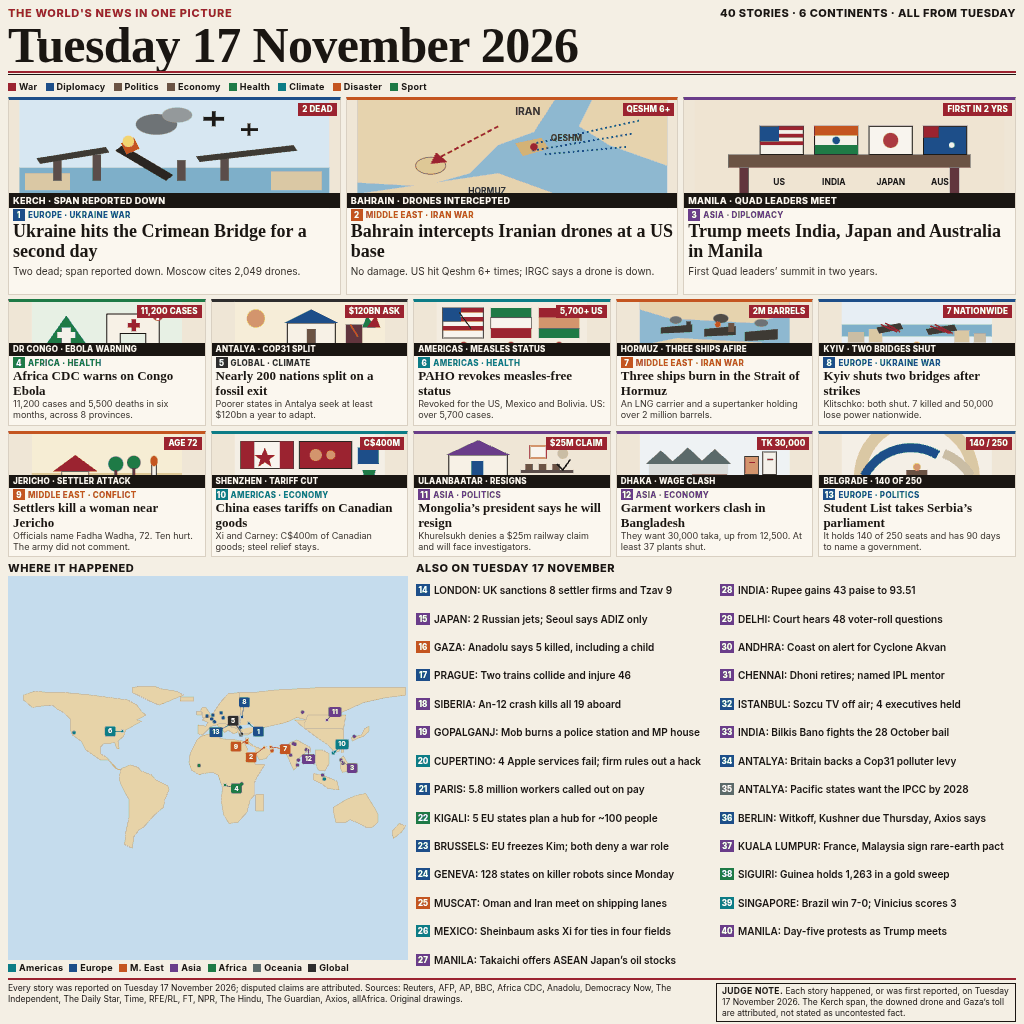
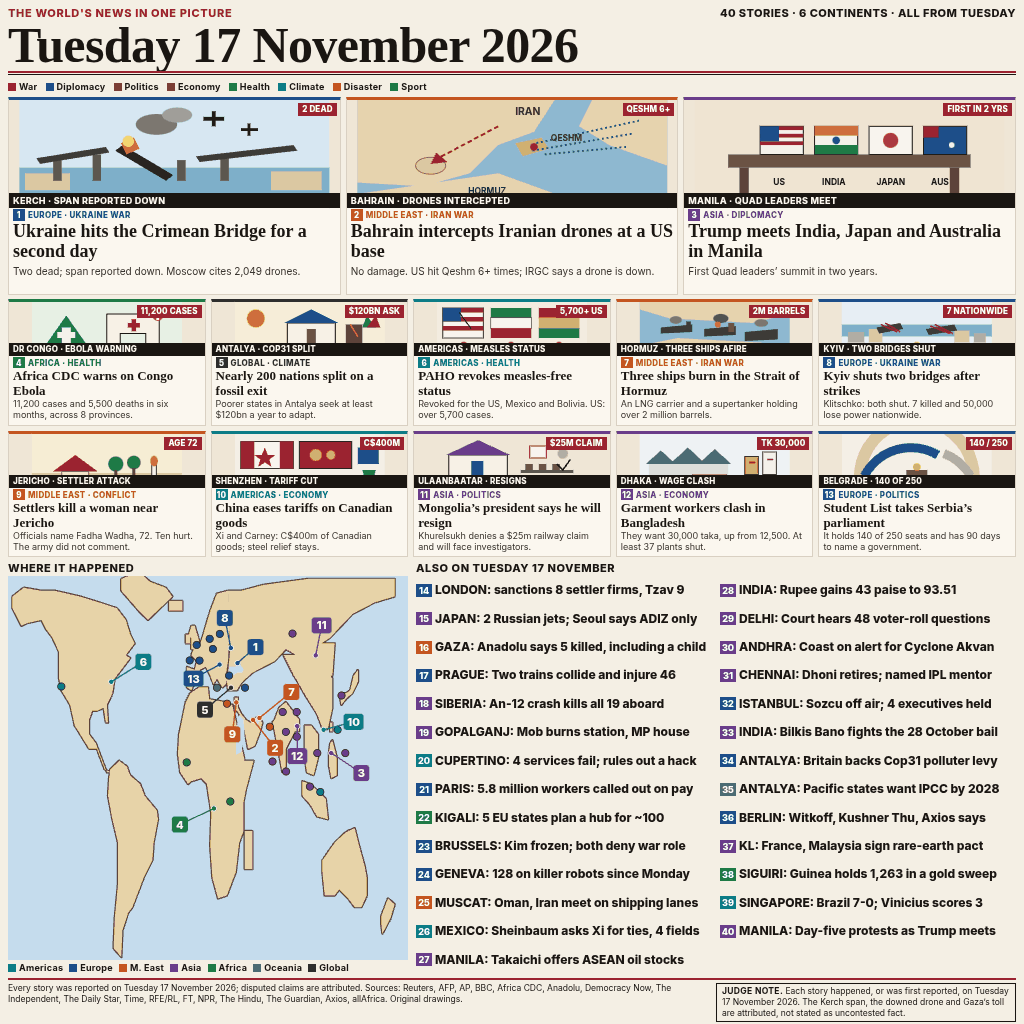
Fill the world map and tighten the also-list type.
Project 75N-56S and 170W-190E onto the whole map box, with larger pins and the 27 also dots. Set the also lines to 12px bold so they fill the columns and still fit.

diff --git a/build/page.html b/build/page.html
@@ -80,9 +80,9 @@
     grid-template-rows: repeat(14, minmax(0, 1fr)); grid-auto-flow: column;
     gap: 0 8px; min-height: 0;
   }
-  .also li { display: flex; gap: 4px; align-items: center; min-width: 0; overflow: hidden; }
-  .also b { flex: 0 0 auto; min-width: 14px; color: #fff; font-size: 8px; line-height: 12px; text-align: center; font-weight: 800; }
-  .also span { font-size: 10px; line-height: 12px; font-weight: 650; white-space: nowrap; overflow: hidden; }
+  .also li { display: flex; gap: 3px; align-items: center; min-width: 0; overflow: hidden; }
+  .also b { flex: 0 0 auto; min-width: 16px; color: #fff; font-size: 9px; line-height: 13px; text-align: center; font-weight: 800; }
+  .also span { font-size: 12px; line-height: 14px; font-weight: 800; white-space: nowrap; overflow: hidden; }
   footer { display: grid; grid-template-columns: minmax(0, 1fr) 300px; gap: 6px; border-top: 2px solid #9b2330; padding-top: 3px; }
   .src { font-size: 8.5px; line-height: 11px; }
   .judge { border: 1px solid #1a1612; padding: 2px 5px; font-size: 8.5px; line-height: 11px; }
@@ -331,17 +331,18 @@
   </article></section>
   <section class="bottom">
     <h2 class="where">WHERE IT HAPPENED</h2>
-    <div class="map-slot"><svg viewBox="0 0 980 400" preserveAspectRatio="xMidYMid meet" xmlns="http://www.w3.org/2000/svg" role="img" aria-label="Where it happened">
-    <rect width="980" height="400" fill="#c5dced"/>
-    <g fill="#e7d3a8" stroke="#b7a27a" stroke-width="1.2"><path d="M38.1 21.4L65.3 12.2L108.9 15.3L141.6 15.3L204.2 21.4L250.4 27.5L294.0 33.6L315.8 45.8L326.7 61.1L337.6 70.2L315.8 82.4L326.7 85.5L310.3 94.7L299.4 100.8L288.6 106.9L283.1 122.1L269.5 134.4L272.2 152.7L266.8 152.7L261.3 137.4L245.0 140.5L234.1 140.5L225.9 149.6L225.9 164.9L242.3 174.0L253.2 186.3L269.5 204.6L280.4 204.6L264.1 201.5L245.0 180.2L225.9 180.2L204.2 164.9L190.6 155.7L179.7 134.4L157.9 119.1L152.4 106.9L152.4 79.4L136.1 64.1L119.8 55.0L108.9 45.8L76.2 48.9L59.9 51.9L38.1 33.6Z"/><path d="M321.2 0.0L359.3 0.0L375.7 6.1L413.8 12.2L430.1 21.4L370.2 45.8L348.4 36.6L304.9 15.3L304.9 3.1Z"/><path d="M277.7 201.5L299.4 192.4L318.5 198.5L326.7 207.6L351.2 216.8L362.1 229.0L392.0 244.3L394.7 253.4L383.8 277.9L381.1 296.2L359.3 314.5L348.4 326.7L332.1 345.0L321.2 351.1L307.6 369.5L304.9 396.9L285.8 387.8L288.6 357.3L296.7 320.6L296.7 277.9L283.1 253.4L272.2 229.0L274.9 210.7Z"/><path d="M443.7 183.2L446.4 164.9L462.8 131.3L473.7 122.1L495.4 116.0L517.2 116.0L519.9 128.2L558.1 131.3L577.1 134.4L607.1 192.4L628.8 192.4L609.8 222.9L604.3 235.1L604.3 265.6L593.4 277.9L585.3 308.4L577.1 317.6L563.5 332.8L541.7 335.9L528.1 314.5L522.7 280.9L525.4 247.3L514.5 216.8L500.9 210.7L476.4 213.7L468.2 216.8L449.2 204.6L443.7 186.3Z"/><path d="M607.1 265.6L626.1 265.6L626.1 305.3L607.1 305.3Z"/><path d="M465.5 116.0L465.5 94.7L484.6 97.7L490.0 88.5L476.4 82.4L484.6 73.3L495.4 73.3L503.6 64.1L511.8 51.9L522.7 36.6L539.0 18.3L566.2 15.3L571.7 45.8L566.2 88.5L560.8 103.8L544.4 106.9L522.7 100.8L511.8 94.7L498.2 97.7L476.4 119.1L465.5 116.0Z"/><path d="M511.8 94.7L522.7 103.8L530.8 113.0L539.0 106.9L552.6 116.0L560.8 113.0L566.2 103.8L549.9 100.8L533.6 91.6L517.2 91.6Z"/><path d="M560.8 100.8L566.2 119.1L577.1 119.1L588.0 119.1L609.8 103.8L588.0 100.8L568.9 100.8Z"/><path d="M577.1 85.5L579.8 88.5L588.0 91.6L590.7 91.6L593.4 85.5L582.6 82.4L571.7 85.5Z"/><path d="M582.6 126.7L590.2 126.7L590.2 139.8L582.6 139.8Z"/><path d="M582.6 137.4L593.4 143.5L607.1 161.8L615.2 180.2L631.6 177.1L645.2 161.8L650.6 152.7L642.4 146.6L630.5 148.4L626.7 150.8L620.7 152.7L609.8 149.6L598.9 143.5L588.0 134.4Z"/><path d="M626.4 148.1L629.7 148.1L629.7 151.8L626.4 151.8Z"/><path d="M566.2 100.8L577.1 116.0L588.0 116.0L609.8 106.9L626.1 100.8L653.3 94.7L680.6 88.5L707.8 76.3L735.0 82.4L773.1 76.3L816.7 64.1L871.1 39.7L925.6 27.5L974.6 21.4L974.6 3.1L871.1 3.1L762.2 3.1L653.3 9.2L598.9 15.3L566.2 15.3L571.7 76.3Z"/><path d="M702.3 82.4L724.1 100.8L756.8 125.2L784.0 143.5L800.3 161.8L811.2 158.8L822.1 137.4L822.1 106.9L800.3 91.6L762.2 88.5L729.6 82.4Z"/><path d="M675.1 152.7L680.6 161.8L688.7 180.2L699.6 204.6L707.8 198.5L707.8 180.2L729.6 161.8L740.4 161.8L740.4 149.6L707.8 131.3L691.4 137.4L680.6 149.6Z"/><path d="M754.1 155.7L754.1 189.3L759.5 204.6L775.8 207.6L786.7 189.3L786.7 164.9L770.4 155.7Z"/><path d="M726.8 103.8L822.1 103.8L827.6 70.2L735.0 70.2L726.8 88.5Z"/><path d="M468.2 64.1L476.4 51.9L484.6 51.9L495.4 67.2L492.7 76.3L476.4 76.3L476.4 64.1Z"/><path d="M462.8 70.2L462.8 61.1L473.7 61.1L473.7 70.2Z"/><path d="M841.2 126.7L846.6 122.1L854.8 122.1L865.7 119.1L873.8 103.8L884.7 97.7L884.7 109.9L871.1 122.1L854.8 128.2L843.9 134.4Z"/><path d="M816.7 174.0L822.1 171.0L833.0 189.3L833.0 207.6L819.4 210.7L813.9 198.5L813.9 183.2Z"/><path d="M748.6 213.7L767.7 216.8L784.0 222.9L805.8 232.1L811.2 253.4L784.0 250.4L767.7 238.2L748.6 229.0Z"/><path d="M797.6 296.2L827.6 277.9L849.3 268.7L860.2 265.6L876.6 262.6L887.4 280.9L901.1 302.3L906.5 314.5L906.5 332.8L892.9 345.0L876.6 345.0L860.2 335.9L838.4 326.7L827.6 332.8L803.1 332.8L797.6 308.4Z"/><path d="M941.9 354.2L958.2 335.9L974.6 342.0L963.7 357.3L944.6 372.5L941.9 363.4Z"/><path d="M421.9 36.0L454.6 36.0L454.6 26.0L421.9 26.0Z"/><path d="M816.7 152.7L822.1 152.7L822.1 161.8L816.7 161.8Z"/></g>
-    <path d="M566.2 103.8L579.8 103.8L588.0 100.8L601.6 100.8L604.3 97.7L596.2 91.6L582.6 94.7L568.9 94.7Z" fill="#c5dced"/><path d="M632.6 148.4L641.9 142.3L645.7 149.6L638.6 155.1Z" fill="#c5dced"/><path d="M585.8 186.3L598.9 183.2L607.1 167.9L604.3 149.6L593.4 145.0L585.3 161.8Z" fill="#c5dced"/>
-    <circle cx="487.6" cy="72.7" r="4.2" fill="#1d4e89" opacity="0.95"/><circle cx="848.2" cy="122.5" r="4.2" fill="#6a3d8a" opacity="0.95"/><circle cx="584.6" cy="137.0" r="4.2" fill="#c45520" opacity="0.95"/><circle cx="527.3" cy="77.1" r="4.2" fill="#1d4e89" opacity="0.95"/><circle cx="721.4" cy="63.0" r="4.2" fill="#6a3d8a" opacity="0.95"/><circle cx="730.7" cy="155.1" r="4.2" fill="#6a3d8a" opacity="0.95"/><circle cx="161.8" cy="113.1" r="4.2" fill="#0c7c86" opacity="0.95"/><circle cx="499.4" cy="79.8" r="4.2" fill="#1d4e89" opacity="0.95"/><circle cx="572.8" cy="238.9" r="4.2" fill="#1e7a46" opacity="0.95"/><circle cx="501.8" cy="70.7" r="4.2" fill="#1d4e89" opacity="0.95"/><circle cx="505.7" cy="86.9" r="4.2" fill="#1d4e89" opacity="0.95"/><circle cx="646.9" cy="158.0" r="4.2" fill="#c45520" opacity="0.95"/><circle cx="797.5" cy="163.2" r="4.2" fill="#0c7c86" opacity="0.95"/><circle cx="815.4" cy="180.4" r="4.2" fill="#6a3d8a" opacity="0.95"/><circle cx="692.4" cy="168.7" r="4.2" fill="#6a3d8a" opacity="0.95"/><circle cx="703.2" cy="141.6" r="4.2" fill="#6a3d8a" opacity="0.95"/><circle cx="711.5" cy="180.6" r="4.2" fill="#6a3d8a" opacity="0.95"/><circle cx="709.5" cy="193.1" r="4.2" fill="#6a3d8a" opacity="0.95"/><circle cx="568.9" cy="100.8" r="4.2" fill="#1d4e89" opacity="0.95"/><circle cx="699.2" cy="140.6" r="4.2" fill="#6a3d8a" opacity="0.95"/><circle cx="571.6" cy="117.4" r="4.2" fill="#1d4e89" opacity="0.95"/><circle cx="570.6" cy="119.3" r="4.2" fill="#5e6a72" opacity="0.95"/><circle cx="522.5" cy="64.6" r="4.2" fill="#1d4e89" opacity="0.95"/><circle cx="770.8" cy="217.4" r="4.2" fill="#6a3d8a" opacity="0.95"/><circle cx="468.0" cy="194.1" r="4.2" fill="#1e7a46" opacity="0.95"/><circle cx="774.8" cy="227.0" r="4.2" fill="#0c7c86" opacity="0.95"/><circle cx="820.3" cy="188.5" r="4.2" fill="#6a3d8a" opacity="0.95"/>
-    <circle cx="589.6" cy="90.8" r="3.4" fill="#1d4e89" stroke="#fffaf3" stroke-width="1"/><line x1="589.6" y1="90.8" x2="613.6" y2="110.8" stroke="#1d4e89" stroke-width="1.6"/><circle cx="627.7" cy="149.9" r="3.4" fill="#c45520" stroke="#fffaf3" stroke-width="1"/><line x1="627.7" y1="149.9" x2="595.7" y2="173.9" stroke="#c45520" stroke-width="1.6"/><circle cx="819.3" cy="184.4" r="3.4" fill="#6a3d8a" stroke="#fffaf3" stroke-width="1"/><line x1="819.3" y1="184.4" x2="843.3" y2="200.4" stroke="#6a3d8a" stroke-width="1.6"/><circle cx="531.7" cy="242.2" r="3.4" fill="#1e7a46" stroke="#fffaf3" stroke-width="1"/><line x1="531.7" y1="242.2" x2="559.7" y2="250.2" stroke="#1e7a46" stroke-width="1.6"/><circle cx="573.6" cy="116.3" r="3.4" fill="#2c333a" stroke="#fffaf3" stroke-width="1"/><line x1="573.6" y1="116.3" x2="551.6" y2="84.3" stroke="#2c333a" stroke-width="1.6"/><circle cx="280.3" cy="110.2" r="3.4" fill="#0c7c86" stroke="#fffaf3" stroke-width="1"/><line x1="280.3" y1="110.2" x2="250.3" y2="110.2" stroke="#0c7c86" stroke-width="1.6"/><circle cx="643.1" cy="147.9" r="3.4" fill="#c45520" stroke="#fffaf3" stroke-width="1"/><line x1="643.1" y1="147.9" x2="679.1" y2="153.9" stroke="#c45520" stroke-width="1.6"/><circle cx="573.1" cy="75.0" r="3.4" fill="#1d4e89" stroke="#fffaf3" stroke-width="1"/><line x1="573.1" y1="75.0" x2="579.1" y2="39.0" stroke="#1d4e89" stroke-width="1.6"/><circle cx="586.5" cy="131.6" r="3.4" fill="#c45520" stroke="#fffaf3" stroke-width="1"/><line x1="586.5" y1="131.6" x2="558.5" y2="147.6" stroke="#c45520" stroke-width="1.6"/><circle cx="800.5" cy="160.2" r="3.4" fill="#0c7c86" stroke="#fffaf3" stroke-width="1"/><line x1="800.5" y1="160.2" x2="818.5" y2="142.2" stroke="#0c7c86" stroke-width="1.6"/><circle cx="781.0" cy="82.7" r="3.4" fill="#6a3d8a" stroke="#fffaf3" stroke-width="1"/><line x1="781.0" y1="82.7" x2="801.0" y2="62.7" stroke="#6a3d8a" stroke-width="1.6"/><circle cx="736.1" cy="156.3" r="3.4" fill="#6a3d8a" stroke="#fffaf3" stroke-width="1"/><line x1="736.1" y1="156.3" x2="736.1" y2="178.3" stroke="#6a3d8a" stroke-width="1.6"/><circle cx="545.7" cy="92.2" r="3.4" fill="#1d4e89" stroke="#fffaf3" stroke-width="1"/><line x1="545.7" y1="92.2" x2="509.7" y2="112.2" stroke="#1d4e89" stroke-width="1.6"/>
-    <rect x="600.6" y="98.8" width="26" height="24" rx="4" fill="#1d4e89"/><text x="613.6" y="115.8" text-anchor="middle" font-family="Inter, Liberation Sans, DejaVu Sans, sans-serif" font-size="16" font-weight="800" fill="#fffaf3">1</text><rect x="582.7" y="161.9" width="26" height="24" rx="4" fill="#c45520"/><text x="595.7" y="178.9" text-anchor="middle" font-family="Inter, Liberation Sans, DejaVu Sans, sans-serif" font-size="16" font-weight="800" fill="#fffaf3">2</text><rect x="830.3" y="188.4" width="26" height="24" rx="4" fill="#6a3d8a"/><text x="843.3" y="205.4" text-anchor="middle" font-family="Inter, Liberation Sans, DejaVu Sans, sans-serif" font-size="16" font-weight="800" fill="#fffaf3">3</text><rect x="546.7" y="238.2" width="26" height="24" rx="4" fill="#1e7a46"/><text x="559.7" y="255.2" text-anchor="middle" font-family="Inter, Liberation Sans, DejaVu Sans, sans-serif" font-size="16" font-weight="800" fill="#fffaf3">4</text><rect x="538.6" y="72.3" width="26" height="24" rx="4" fill="#2c333a"/><text x="551.6" y="89.3" text-anchor="middle" font-family="Inter, Liberation Sans, DejaVu Sans, sans-serif" font-size="16" font-weight="800" fill="#fffaf3">5</text><rect x="237.3" y="98.2" width="26" height="24" rx="4" fill="#0c7c86"/><text x="250.3" y="115.2" text-anchor="middle" font-family="Inter, Liberation Sans, DejaVu Sans, sans-serif" font-size="16" font-weight="800" fill="#fffaf3">6</text><rect x="666.1" y="141.9" width="26" height="24" rx="4" fill="#c45520"/><text x="679.1" y="158.9" text-anchor="middle" font-family="Inter, Liberation Sans, DejaVu Sans, sans-serif" font-size="16" font-weight="800" fill="#fffaf3">7</text><rect x="566.1" y="27.0" width="26" height="24" rx="4" fill="#1d4e89"/><text x="579.1" y="44.0" text-anchor="middle" font-family="Inter, Liberation Sans, DejaVu Sans, sans-serif" font-size="16" font-weight="800" fill="#fffaf3">8</text><rect x="545.5" y="135.6" width="26" height="24" rx="4" fill="#c45520"/><text x="558.5" y="152.6" text-anchor="middle" font-family="Inter, Liberation Sans, DejaVu Sans, sans-serif" font-size="16" font-weight="800" fill="#fffaf3">9</text><rect x="802.5" y="130.2" width="32" height="24" rx="4" fill="#0c7c86"/><text x="818.5" y="147.2" text-anchor="middle" font-family="Inter, Liberation Sans, DejaVu Sans, sans-serif" font-size="16" font-weight="800" fill="#fffaf3">10</text><rect x="785.0" y="50.7" width="32" height="24" rx="4" fill="#6a3d8a"/><text x="801.0" y="67.7" text-anchor="middle" font-family="Inter, Liberation Sans, DejaVu Sans, sans-serif" font-size="16" font-weight="800" fill="#fffaf3">11</text><rect x="720.1" y="166.3" width="32" height="24" rx="4" fill="#6a3d8a"/><text x="736.1" y="183.3" text-anchor="middle" font-family="Inter, Liberation Sans, DejaVu Sans, sans-serif" font-size="16" font-weight="800" fill="#fffaf3">12</text><rect x="493.7" y="100.2" width="32" height="24" rx="4" fill="#1d4e89"/><text x="509.7" y="117.2" text-anchor="middle" font-family="Inter, Liberation Sans, DejaVu Sans, sans-serif" font-size="16" font-weight="800" fill="#fffaf3">13</text>
+    <div class="map-slot"><svg viewBox="0 0 400 384" preserveAspectRatio="none" xmlns="http://www.w3.org/2000/svg" role="img" aria-label="Where it happened">
+    <rect width="400" height="384" fill="#c5dced"/>
+    <g fill="#5a4030" stroke="#5a4030" stroke-width="2.4" stroke-linejoin="round"><path d="M4.4 20.5L15.6 11.7L33.3 14.7L46.7 14.7L72.2 20.5L91.1 26.4L108.9 32.2L117.8 44.0L122.2 58.6L126.7 67.4L117.8 79.1L122.2 82.1L115.6 90.9L111.1 96.7L106.7 102.6L104.4 117.3L98.9 129.0L100.0 146.6L97.8 146.6L95.6 131.9L88.9 134.8L84.4 134.8L81.1 143.6L81.1 158.3L87.8 167.1L92.2 178.8L98.9 196.4L103.3 196.4L96.7 193.5L88.9 172.9L81.1 172.9L72.2 158.3L66.7 149.5L62.2 129.0L53.3 114.3L51.1 102.6L51.1 76.2L44.4 61.6L37.8 52.8L33.3 44.0L20.0 46.9L13.3 49.8L4.4 32.2Z"/><path d="M120.0 0.0L135.6 0.0L142.2 5.9L157.8 11.7L164.4 20.5L140.0 44.0L131.1 35.2L113.3 14.7L113.3 2.9Z"/><path d="M102.2 193.5L111.1 184.7L118.9 190.5L122.2 199.3L132.2 208.1L136.7 219.8L148.9 234.5L150.0 243.3L145.6 266.7L144.4 284.3L135.6 301.9L131.1 313.6L124.4 331.2L120.0 337.1L114.4 354.7L113.3 381.1L105.6 372.3L106.7 343.0L110.0 307.8L110.0 266.7L104.4 243.3L100.0 219.8L101.1 202.3Z"/><path d="M170.0 175.9L171.1 158.3L177.8 126.0L182.2 117.3L191.1 111.4L200.0 111.4L201.1 123.1L216.7 126.0L224.4 129.0L236.7 184.7L245.6 184.7L237.8 214.0L235.6 225.7L235.6 255.0L231.1 266.7L227.8 296.1L224.4 304.9L218.9 319.5L210.0 322.4L204.4 301.9L202.2 269.7L203.3 237.4L198.9 208.1L193.3 202.3L183.3 205.2L180.0 208.1L172.2 196.4L170.0 178.8Z"/><path d="M236.7 255.0L244.4 255.0L244.4 293.1L236.7 293.1Z"/><path d="M178.9 111.4L178.9 90.9L186.7 93.8L188.9 85.0L183.3 79.1L186.7 70.4L191.1 70.4L194.4 61.6L197.8 49.8L202.2 35.2L208.9 17.6L220.0 14.7L222.2 44.0L220.0 85.0L217.8 99.7L211.1 102.6L202.2 96.7L197.8 90.9L192.2 93.8L183.3 114.3L178.9 111.4Z"/><path d="M197.8 90.9L202.2 99.7L205.6 108.5L208.9 102.6L214.4 111.4L217.8 108.5L220.0 99.7L213.3 96.7L206.7 87.9L200.0 87.9Z"/><path d="M217.8 96.7L220.0 114.3L224.4 114.3L228.9 114.3L237.8 99.7L228.9 96.7L221.1 96.7Z"/><path d="M224.4 82.1L225.6 85.0L228.9 87.9L230.0 87.9L231.1 82.1L226.7 79.1L222.2 82.1Z"/><path d="M226.7 121.6L229.8 121.6L229.8 134.3L226.7 134.3Z"/><path d="M226.7 131.9L231.1 137.8L236.7 155.4L240.0 172.9L246.7 170.0L252.2 155.4L254.4 146.6L251.1 140.7L246.2 142.5L244.7 144.8L242.2 146.6L237.8 143.6L233.3 137.8L228.9 129.0Z"/><path d="M244.6 142.2L245.9 142.2L245.9 145.7L244.6 145.7Z"/><path d="M220.0 96.7L224.4 111.4L228.9 111.4L237.8 102.6L244.4 96.7L255.6 90.9L266.7 85.0L277.8 73.3L288.9 79.1L304.4 73.3L322.2 61.6L344.4 38.1L366.7 26.4L386.7 20.5L386.7 2.9L344.4 2.9L300.0 2.9L255.6 8.8L233.3 14.7L220.0 14.7L222.2 73.3Z"/><path d="M275.6 79.1L284.4 96.7L297.8 120.2L308.9 137.8L315.6 155.4L320.0 152.4L324.4 131.9L324.4 102.6L315.6 87.9L300.0 85.0L286.7 79.1Z"/><path d="M264.4 146.6L266.7 155.4L270.0 172.9L274.4 196.4L277.8 190.5L277.8 172.9L286.7 155.4L291.1 155.4L291.1 143.6L277.8 126.0L271.1 131.9L266.7 143.6Z"/><path d="M296.7 149.5L296.7 181.7L298.9 196.4L305.6 199.3L310.0 181.7L310.0 158.3L303.3 149.5Z"/><path d="M285.6 99.7L324.4 99.7L326.7 67.4L288.9 67.4L285.6 85.0Z"/><path d="M180.0 61.6L183.3 49.8L186.7 49.8L191.1 64.5L190.0 73.3L183.3 73.3L183.3 61.6Z"/><path d="M177.8 67.4L177.8 58.6L182.2 58.6L182.2 67.4Z"/><path d="M332.2 121.6L334.4 117.3L337.8 117.3L342.2 114.3L345.6 99.7L350.0 93.8L350.0 105.5L344.4 117.3L337.8 123.1L333.3 129.0Z"/><path d="M322.2 167.1L324.4 164.2L328.9 181.7L328.9 199.3L323.3 202.3L321.1 190.5L321.1 175.9Z"/><path d="M294.4 205.2L302.2 208.1L308.9 214.0L317.8 222.8L320.0 243.3L308.9 240.4L302.2 228.6L294.4 219.8Z"/><path d="M314.4 284.3L326.7 266.7L335.6 258.0L340.0 255.0L346.7 252.1L351.1 269.7L356.7 290.2L358.9 301.9L358.9 319.5L353.3 331.2L346.7 331.2L340.0 322.4L331.1 313.6L326.7 319.5L316.7 319.5L314.4 296.1Z"/><path d="M373.3 340.0L380.0 322.4L386.7 328.3L382.2 343.0L374.4 357.6L373.3 348.8Z"/><path d="M161.1 34.6L174.4 34.6L174.4 24.9L161.1 24.9Z"/><path d="M322.2 146.6L324.4 146.6L324.4 155.4L322.2 155.4Z"/></g>
+    <g fill="#e7d3a8"><path d="M4.4 20.5L15.6 11.7L33.3 14.7L46.7 14.7L72.2 20.5L91.1 26.4L108.9 32.2L117.8 44.0L122.2 58.6L126.7 67.4L117.8 79.1L122.2 82.1L115.6 90.9L111.1 96.7L106.7 102.6L104.4 117.3L98.9 129.0L100.0 146.6L97.8 146.6L95.6 131.9L88.9 134.8L84.4 134.8L81.1 143.6L81.1 158.3L87.8 167.1L92.2 178.8L98.9 196.4L103.3 196.4L96.7 193.5L88.9 172.9L81.1 172.9L72.2 158.3L66.7 149.5L62.2 129.0L53.3 114.3L51.1 102.6L51.1 76.2L44.4 61.6L37.8 52.8L33.3 44.0L20.0 46.9L13.3 49.8L4.4 32.2Z"/><path d="M120.0 0.0L135.6 0.0L142.2 5.9L157.8 11.7L164.4 20.5L140.0 44.0L131.1 35.2L113.3 14.7L113.3 2.9Z"/><path d="M102.2 193.5L111.1 184.7L118.9 190.5L122.2 199.3L132.2 208.1L136.7 219.8L148.9 234.5L150.0 243.3L145.6 266.7L144.4 284.3L135.6 301.9L131.1 313.6L124.4 331.2L120.0 337.1L114.4 354.7L113.3 381.1L105.6 372.3L106.7 343.0L110.0 307.8L110.0 266.7L104.4 243.3L100.0 219.8L101.1 202.3Z"/><path d="M170.0 175.9L171.1 158.3L177.8 126.0L182.2 117.3L191.1 111.4L200.0 111.4L201.1 123.1L216.7 126.0L224.4 129.0L236.7 184.7L245.6 184.7L237.8 214.0L235.6 225.7L235.6 255.0L231.1 266.7L227.8 296.1L224.4 304.9L218.9 319.5L210.0 322.4L204.4 301.9L202.2 269.7L203.3 237.4L198.9 208.1L193.3 202.3L183.3 205.2L180.0 208.1L172.2 196.4L170.0 178.8Z"/><path d="M236.7 255.0L244.4 255.0L244.4 293.1L236.7 293.1Z"/><path d="M178.9 111.4L178.9 90.9L186.7 93.8L188.9 85.0L183.3 79.1L186.7 70.4L191.1 70.4L194.4 61.6L197.8 49.8L202.2 35.2L208.9 17.6L220.0 14.7L222.2 44.0L220.0 85.0L217.8 99.7L211.1 102.6L202.2 96.7L197.8 90.9L192.2 93.8L183.3 114.3L178.9 111.4Z"/><path d="M197.8 90.9L202.2 99.7L205.6 108.5L208.9 102.6L214.4 111.4L217.8 108.5L220.0 99.7L213.3 96.7L206.7 87.9L200.0 87.9Z"/><path d="M217.8 96.7L220.0 114.3L224.4 114.3L228.9 114.3L237.8 99.7L228.9 96.7L221.1 96.7Z"/><path d="M224.4 82.1L225.6 85.0L228.9 87.9L230.0 87.9L231.1 82.1L226.7 79.1L222.2 82.1Z"/><path d="M226.7 121.6L229.8 121.6L229.8 134.3L226.7 134.3Z"/><path d="M226.7 131.9L231.1 137.8L236.7 155.4L240.0 172.9L246.7 170.0L252.2 155.4L254.4 146.6L251.1 140.7L246.2 142.5L244.7 144.8L242.2 146.6L237.8 143.6L233.3 137.8L228.9 129.0Z"/><path d="M244.6 142.2L245.9 142.2L245.9 145.7L244.6 145.7Z"/><path d="M220.0 96.7L224.4 111.4L228.9 111.4L237.8 102.6L244.4 96.7L255.6 90.9L266.7 85.0L277.8 73.3L288.9 79.1L304.4 73.3L322.2 61.6L344.4 38.1L366.7 26.4L386.7 20.5L386.7 2.9L344.4 2.9L300.0 2.9L255.6 8.8L233.3 14.7L220.0 14.7L222.2 73.3Z"/><path d="M275.6 79.1L284.4 96.7L297.8 120.2L308.9 137.8L315.6 155.4L320.0 152.4L324.4 131.9L324.4 102.6L315.6 87.9L300.0 85.0L286.7 79.1Z"/><path d="M264.4 146.6L266.7 155.4L270.0 172.9L274.4 196.4L277.8 190.5L277.8 172.9L286.7 155.4L291.1 155.4L291.1 143.6L277.8 126.0L271.1 131.9L266.7 143.6Z"/><path d="M296.7 149.5L296.7 181.7L298.9 196.4L305.6 199.3L310.0 181.7L310.0 158.3L303.3 149.5Z"/><path d="M285.6 99.7L324.4 99.7L326.7 67.4L288.9 67.4L285.6 85.0Z"/><path d="M180.0 61.6L183.3 49.8L186.7 49.8L191.1 64.5L190.0 73.3L183.3 73.3L183.3 61.6Z"/><path d="M177.8 67.4L177.8 58.6L182.2 58.6L182.2 67.4Z"/><path d="M332.2 121.6L334.4 117.3L337.8 117.3L342.2 114.3L345.6 99.7L350.0 93.8L350.0 105.5L344.4 117.3L337.8 123.1L333.3 129.0Z"/><path d="M322.2 167.1L324.4 164.2L328.9 181.7L328.9 199.3L323.3 202.3L321.1 190.5L321.1 175.9Z"/><path d="M294.4 205.2L302.2 208.1L308.9 214.0L317.8 222.8L320.0 243.3L308.9 240.4L302.2 228.6L294.4 219.8Z"/><path d="M314.4 284.3L326.7 266.7L335.6 258.0L340.0 255.0L346.7 252.1L351.1 269.7L356.7 290.2L358.9 301.9L358.9 319.5L353.3 331.2L346.7 331.2L340.0 322.4L331.1 313.6L326.7 319.5L316.7 319.5L314.4 296.1Z"/><path d="M373.3 340.0L380.0 322.4L386.7 328.3L382.2 343.0L374.4 357.6L373.3 348.8Z"/><path d="M161.1 34.6L174.4 34.6L174.4 24.9L161.1 24.9Z"/><path d="M322.2 146.6L324.4 146.6L324.4 155.4L322.2 155.4Z"/></g>
+    <path d="M220.0 99.7L225.6 99.7L228.9 96.7L234.4 96.7L235.6 93.8L232.2 87.9L226.7 90.9L221.1 90.9Z" fill="#c5dced"/><path d="M247.1 142.5L250.9 136.6L252.4 143.6L249.6 148.9Z" fill="#c5dced"/><path d="M228.0 178.8L233.3 175.9L236.7 161.2L235.6 143.6L231.1 139.2L227.8 155.4Z" fill="#c5dced"/>
+    <circle cx="188.7" cy="68.9" r="3.6" fill="#1d4e89" stroke="#1a1612" stroke-width="0.7"/><circle cx="333.5" cy="119.5" r="3.6" fill="#6a3d8a" stroke="#1a1612" stroke-width="0.7"/><circle cx="219.1" cy="127.7" r="3.6" fill="#c45520" stroke="#1a1612" stroke-width="0.7"/><circle cx="204.9" cy="73.0" r="3.6" fill="#1d4e89" stroke="#1a1612" stroke-width="0.7"/><circle cx="284.5" cy="57.6" r="3.6" fill="#6a3d8a" stroke="#1a1612" stroke-width="0.7"/><circle cx="288.8" cy="160.7" r="3.6" fill="#6a3d8a" stroke="#1a1612" stroke-width="0.7"/><circle cx="53.3" cy="110.5" r="3.6" fill="#0c7c86" stroke="#1a1612" stroke-width="0.7"/><circle cx="191.5" cy="84.6" r="3.6" fill="#1d4e89" stroke="#1a1612" stroke-width="0.7"/><circle cx="222.3" cy="225.5" r="3.6" fill="#1e7a46" stroke="#1a1612" stroke-width="0.7"/><circle cx="201.7" cy="62.8" r="3.6" fill="#1d4e89" stroke="#1a1612" stroke-width="0.7"/><circle cx="181.7" cy="84.4" r="3.6" fill="#1d4e89" stroke="#1a1612" stroke-width="0.7"/><circle cx="261.8" cy="150.7" r="3.6" fill="#c45520" stroke="#1a1612" stroke-width="0.7"/><circle cx="329.6" cy="153.8" r="3.6" fill="#0c7c86" stroke="#1a1612" stroke-width="0.7"/><circle cx="337.3" cy="177.1" r="3.6" fill="#6a3d8a" stroke="#1a1612" stroke-width="0.7"/><circle cx="277.9" cy="155.9" r="3.6" fill="#6a3d8a" stroke="#1a1612" stroke-width="0.7"/><circle cx="274.7" cy="136.0" r="3.6" fill="#6a3d8a" stroke="#1a1612" stroke-width="0.7"/><circle cx="264.5" cy="185.5" r="3.6" fill="#6a3d8a" stroke="#1a1612" stroke-width="0.7"/><circle cx="278.1" cy="195.5" r="3.6" fill="#6a3d8a" stroke="#1a1612" stroke-width="0.7"/><circle cx="221.1" cy="99.6" r="3.6" fill="#1d4e89" stroke="#1a1612" stroke-width="0.7"/><circle cx="288.7" cy="136.0" r="3.6" fill="#6a3d8a" stroke="#1a1612" stroke-width="0.7"/><circle cx="237.0" cy="111.7" r="3.6" fill="#1d4e89" stroke="#1a1612" stroke-width="0.7"/><circle cx="209.0" cy="111.7" r="3.6" fill="#5e6a72" stroke="#1a1612" stroke-width="0.7"/><circle cx="211.8" cy="57.9" r="3.6" fill="#1d4e89" stroke="#1a1612" stroke-width="0.7"/><circle cx="301.9" cy="210.6" r="3.6" fill="#6a3d8a" stroke="#1a1612" stroke-width="0.7"/><circle cx="178.7" cy="186.4" r="3.6" fill="#1e7a46" stroke="#1a1612" stroke-width="0.7"/><circle cx="312.3" cy="216.0" r="3.6" fill="#0c7c86" stroke="#1a1612" stroke-width="0.7"/><circle cx="309.3" cy="177.1" r="3.6" fill="#6a3d8a" stroke="#1a1612" stroke-width="0.7"/>
+    <circle cx="229.5" cy="87.1" r="2.6" fill="#1d4e89" stroke="#fffaf3" stroke-width="0.8"/><line x1="229.5" y1="87.1" x2="247.5" y2="71.1" stroke="#1d4e89" stroke-width="1.3"/><circle cx="245.1" cy="143.9" r="2.6" fill="#c45520" stroke="#fffaf3" stroke-width="0.8"/><line x1="245.1" y1="143.9" x2="267.1" y2="171.9" stroke="#c45520" stroke-width="1.3"/><circle cx="323.3" cy="177.1" r="2.6" fill="#6a3d8a" stroke="#fffaf3" stroke-width="0.8"/><line x1="323.3" y1="177.1" x2="353.3" y2="197.1" stroke="#6a3d8a" stroke-width="1.3"/><circle cx="205.9" cy="232.5" r="2.6" fill="#1e7a46" stroke="#fffaf3" stroke-width="0.8"/><line x1="205.9" y1="232.5" x2="171.9" y2="248.5" stroke="#1e7a46" stroke-width="1.3"/><circle cx="223.0" cy="111.7" r="2.6" fill="#2c333a" stroke="#fffaf3" stroke-width="0.8"/><line x1="223.0" y1="111.7" x2="197.0" y2="133.7" stroke="#2c333a" stroke-width="1.3"/><circle cx="103.3" cy="105.8" r="2.6" fill="#0c7c86" stroke="#fffaf3" stroke-width="0.8"/><line x1="103.3" y1="105.8" x2="135.3" y2="85.8" stroke="#0c7c86" stroke-width="1.3"/><circle cx="251.4" cy="142.0" r="2.6" fill="#c45520" stroke="#fffaf3" stroke-width="0.8"/><line x1="251.4" y1="142.0" x2="283.4" y2="116.0" stroke="#c45520" stroke-width="1.3"/><circle cx="222.8" cy="72.0" r="2.6" fill="#1d4e89" stroke="#fffaf3" stroke-width="0.8"/><line x1="222.8" y1="72.0" x2="216.8" y2="42.0" stroke="#1d4e89" stroke-width="1.3"/><circle cx="228.3" cy="126.4" r="2.6" fill="#c45520" stroke="#fffaf3" stroke-width="0.8"/><line x1="228.3" y1="126.4" x2="224.3" y2="158.4" stroke="#c45520" stroke-width="1.3"/><circle cx="315.6" cy="153.8" r="2.6" fill="#0c7c86" stroke="#fffaf3" stroke-width="0.8"/><line x1="315.6" y1="153.8" x2="345.6" y2="145.8" stroke="#0c7c86" stroke-width="1.3"/><circle cx="307.7" cy="79.4" r="2.6" fill="#6a3d8a" stroke="#fffaf3" stroke-width="0.8"/><line x1="307.7" y1="79.4" x2="313.7" y2="49.4" stroke="#6a3d8a" stroke-width="1.3"/><circle cx="289.3" cy="150.1" r="2.6" fill="#6a3d8a" stroke="#fffaf3" stroke-width="0.8"/><line x1="289.3" y1="150.1" x2="289.3" y2="180.1" stroke="#6a3d8a" stroke-width="1.3"/><circle cx="211.6" cy="88.6" r="2.6" fill="#1d4e89" stroke="#fffaf3" stroke-width="0.8"/><line x1="211.6" y1="88.6" x2="185.6" y2="102.6" stroke="#1d4e89" stroke-width="1.3"/>
+    <rect x="239.5" y="63.1" width="16" height="16" rx="3" fill="#1d4e89"/><text x="247.5" y="71.1" text-anchor="middle" dominant-baseline="central" font-family="Inter, Liberation Sans, DejaVu Sans, sans-serif" font-size="11" font-weight="800" fill="#fffaf3">1</text><rect x="259.1" y="163.9" width="16" height="16" rx="3" fill="#c45520"/><text x="267.1" y="171.9" text-anchor="middle" dominant-baseline="central" font-family="Inter, Liberation Sans, DejaVu Sans, sans-serif" font-size="11" font-weight="800" fill="#fffaf3">2</text><rect x="345.3" y="189.1" width="16" height="16" rx="3" fill="#6a3d8a"/><text x="353.3" y="197.1" text-anchor="middle" dominant-baseline="central" font-family="Inter, Liberation Sans, DejaVu Sans, sans-serif" font-size="11" font-weight="800" fill="#fffaf3">3</text><rect x="163.9" y="240.5" width="16" height="16" rx="3" fill="#1e7a46"/><text x="171.9" y="248.5" text-anchor="middle" dominant-baseline="central" font-family="Inter, Liberation Sans, DejaVu Sans, sans-serif" font-size="11" font-weight="800" fill="#fffaf3">4</text><rect x="189.0" y="125.7" width="16" height="16" rx="3" fill="#2c333a"/><text x="197.0" y="133.7" text-anchor="middle" dominant-baseline="central" font-family="Inter, Liberation Sans, DejaVu Sans, sans-serif" font-size="11" font-weight="800" fill="#fffaf3">5</text><rect x="127.3" y="77.8" width="16" height="16" rx="3" fill="#0c7c86"/><text x="135.3" y="85.8" text-anchor="middle" dominant-baseline="central" font-family="Inter, Liberation Sans, DejaVu Sans, sans-serif" font-size="11" font-weight="800" fill="#fffaf3">6</text><rect x="275.4" y="108.0" width="16" height="16" rx="3" fill="#c45520"/><text x="283.4" y="116.0" text-anchor="middle" dominant-baseline="central" font-family="Inter, Liberation Sans, DejaVu Sans, sans-serif" font-size="11" font-weight="800" fill="#fffaf3">7</text><rect x="208.8" y="34.0" width="16" height="16" rx="3" fill="#1d4e89"/><text x="216.8" y="42.0" text-anchor="middle" dominant-baseline="central" font-family="Inter, Liberation Sans, DejaVu Sans, sans-serif" font-size="11" font-weight="800" fill="#fffaf3">8</text><rect x="216.3" y="150.4" width="16" height="16" rx="3" fill="#c45520"/><text x="224.3" y="158.4" text-anchor="middle" dominant-baseline="central" font-family="Inter, Liberation Sans, DejaVu Sans, sans-serif" font-size="11" font-weight="800" fill="#fffaf3">9</text><rect x="335.6" y="137.8" width="20" height="16" rx="3" fill="#0c7c86"/><text x="345.6" y="145.8" text-anchor="middle" dominant-baseline="central" font-family="Inter, Liberation Sans, DejaVu Sans, sans-serif" font-size="11" font-weight="800" fill="#fffaf3">10</text><rect x="303.7" y="41.4" width="20" height="16" rx="3" fill="#6a3d8a"/><text x="313.7" y="49.4" text-anchor="middle" dominant-baseline="central" font-family="Inter, Liberation Sans, DejaVu Sans, sans-serif" font-size="11" font-weight="800" fill="#fffaf3">11</text><rect x="279.3" y="172.1" width="20" height="16" rx="3" fill="#6a3d8a"/><text x="289.3" y="180.1" text-anchor="middle" dominant-baseline="central" font-family="Inter, Liberation Sans, DejaVu Sans, sans-serif" font-size="11" font-weight="800" fill="#fffaf3">12</text><rect x="175.6" y="94.6" width="20" height="16" rx="3" fill="#1d4e89"/><text x="185.6" y="102.6" text-anchor="middle" dominant-baseline="central" font-family="Inter, Liberation Sans, DejaVu Sans, sans-serif" font-size="11" font-weight="800" fill="#fffaf3">13</text>
   </svg></div>
     <p class="legend"><span><i style="background:#0c7c86"></i>Americas</span><span><i style="background:#1d4e89"></i>Europe</span><span><i style="background:#c45520"></i>M. East</span><span><i style="background:#6a3d8a"></i>Asia</span><span><i style="background:#1e7a46"></i>Africa</span><span><i style="background:#5e6a72"></i>Oceania</span><span><i style="background:#2c333a"></i>Global</span></p>
     <h2 class="also-head">ALSO ON TUESDAY 17 NOVEMBER</h2>
-    <ol class="also"><li><b style="background:#1d4e89">14</b><span>LONDON: UK sanctions 8 settler firms and Tzav 9</span></li><li><b style="background:#6a3d8a">15</b><span>JAPAN: 2 Russian jets; Seoul says ADIZ only</span></li><li><b style="background:#c45520">16</b><span>GAZA: Anadolu says 5 killed, including a child</span></li><li><b style="background:#1d4e89">17</b><span>PRAGUE: Two trains collide and injure 46</span></li><li><b style="background:#6a3d8a">18</b><span>SIBERIA: An-12 crash kills all 19 aboard</span></li><li><b style="background:#6a3d8a">19</b><span>GOPALGANJ: Mob burns a police station and MP house</span></li><li><b style="background:#0c7c86">20</b><span>CUPERTINO: 4 Apple services fail; firm rules out a hack</span></li><li><b style="background:#1d4e89">21</b><span>PARIS: 5.8 million workers called out on pay</span></li><li><b style="background:#1e7a46">22</b><span>KIGALI: 5 EU states plan a hub for ~100 people</span></li><li><b style="background:#1d4e89">23</b><span>BRUSSELS: EU freezes Kim; both deny a war role</span></li><li><b style="background:#1d4e89">24</b><span>GENEVA: 128 states on killer robots since Monday</span></li><li><b style="background:#c45520">25</b><span>MUSCAT: Oman and Iran meet on shipping lanes</span></li><li><b style="background:#0c7c86">26</b><span>MEXICO: Sheinbaum asks Xi for ties in four fields</span></li><li><b style="background:#6a3d8a">27</b><span>MANILA: Takaichi offers ASEAN Japan’s oil stocks</span></li><li><b style="background:#6a3d8a">28</b><span>INDIA: Rupee gains 43 paise to 93.51</span></li><li><b style="background:#6a3d8a">29</b><span>DELHI: Court hears 48 voter-roll questions</span></li><li><b style="background:#6a3d8a">30</b><span>ANDHRA: Coast on alert for Cyclone Akvan</span></li><li><b style="background:#6a3d8a">31</b><span>CHENNAI: Dhoni retires; named IPL mentor</span></li><li><b style="background:#1d4e89">32</b><span>ISTANBUL: Sozcu TV off air; 4 executives held</span></li><li><b style="background:#6a3d8a">33</b><span>INDIA: Bilkis Bano fights the 28 October bail</span></li><li><b style="background:#1d4e89">34</b><span>ANTALYA: Britain backs a Cop31 polluter levy</span></li><li><b style="background:#5e6a72">35</b><span>ANTALYA: Pacific states want the IPCC by 2028</span></li><li><b style="background:#1d4e89">36</b><span>BERLIN: Witkoff, Kushner due Thursday, Axios says</span></li><li><b style="background:#6a3d8a">37</b><span>KUALA LUMPUR: France, Malaysia sign rare-earth pact</span></li><li><b style="background:#1e7a46">38</b><span>SIGUIRI: Guinea holds 1,263 in a gold sweep</span></li><li><b style="background:#0c7c86">39</b><span>SINGAPORE: Brazil win 7-0; Vinicius scores 3</span></li><li><b style="background:#6a3d8a">40</b><span>MANILA: Day-five protests as Trump meets</span></li></ol>
+    <ol class="also"><li><b style="background:#1d4e89">14</b><span>LONDON: sanctions 8 settler firms, Tzav 9</span></li><li><b style="background:#6a3d8a">15</b><span>JAPAN: 2 Russian jets; Seoul says ADIZ only</span></li><li><b style="background:#c45520">16</b><span>GAZA: Anadolu says 5 killed, including a child</span></li><li><b style="background:#1d4e89">17</b><span>PRAGUE: Two trains collide and injure 46</span></li><li><b style="background:#6a3d8a">18</b><span>SIBERIA: An-12 crash kills all 19 aboard</span></li><li><b style="background:#6a3d8a">19</b><span>GOPALGANJ: Mob burns station, MP house</span></li><li><b style="background:#0c7c86">20</b><span>CUPERTINO: 4 services fail; rules out a hack</span></li><li><b style="background:#1d4e89">21</b><span>PARIS: 5.8 million workers called out on pay</span></li><li><b style="background:#1e7a46">22</b><span>KIGALI: 5 EU states plan a hub for ~100</span></li><li><b style="background:#1d4e89">23</b><span>BRUSSELS: Kim frozen; both deny war role</span></li><li><b style="background:#1d4e89">24</b><span>GENEVA: 128 on killer robots since Monday</span></li><li><b style="background:#c45520">25</b><span>MUSCAT: Oman, Iran meet on shipping lanes</span></li><li><b style="background:#0c7c86">26</b><span>MEXICO: Sheinbaum asks Xi for ties, 4 fields</span></li><li><b style="background:#6a3d8a">27</b><span>MANILA: Takaichi offers ASEAN oil stocks</span></li><li><b style="background:#6a3d8a">28</b><span>INDIA: Rupee gains 43 paise to 93.51</span></li><li><b style="background:#6a3d8a">29</b><span>DELHI: Court hears 48 voter-roll questions</span></li><li><b style="background:#6a3d8a">30</b><span>ANDHRA: Coast on alert for Cyclone Akvan</span></li><li><b style="background:#6a3d8a">31</b><span>CHENNAI: Dhoni retires; named IPL mentor</span></li><li><b style="background:#1d4e89">32</b><span>ISTANBUL: Sozcu off air; 4 executives held</span></li><li><b style="background:#6a3d8a">33</b><span>INDIA: Bilkis Bano fights the 28 October bail</span></li><li><b style="background:#1d4e89">34</b><span>ANTALYA: Britain backs Cop31 polluter levy</span></li><li><b style="background:#5e6a72">35</b><span>ANTALYA: Pacific states want IPCC by 2028</span></li><li><b style="background:#1d4e89">36</b><span>BERLIN: Witkoff, Kushner Thu, Axios says</span></li><li><b style="background:#6a3d8a">37</b><span>KL: France, Malaysia sign rare-earth pact</span></li><li><b style="background:#1e7a46">38</b><span>SIGUIRI: Guinea holds 1,263 in a gold sweep</span></li><li><b style="background:#0c7c86">39</b><span>SINGAPORE: Brazil 7-0; Vinicius scores 3</span></li><li><b style="background:#6a3d8a">40</b><span>MANILA: Day-five protests as Trump meets</span></li></ol>
   </section>
   <footer>
     <p class="src">Every story was reported on Tuesday 17 November 2026; disputed claims are attributed. Sources: Reuters, AFP, AP, BBC, Africa CDC, Anadolu, Democracy Now, The Independent, The Daily Star, Time, RFE/RL, FT, NPR, The Hindu, The Guardian, Axios, allAfrica. Original drawings.</p>

diff --git a/NOTES.md b/NOTES.md
@@ -159,3 +159,15 @@ Facts are still the researched day. Illustrated set: Kerch, Bahrain, the Quad, E
 ### Next
 
 Pushed to origin main. No further layout work unless a judge pass names a pin or a line that still fails.
+
+### Session 6 (done) — map fill and also-list rows
+
+The map was letterboxed: a 980×400 viewBox with `meet` sat in the middle of the 400×384 slot, so the world was a short band with empty sea above and below. `build/map.mjs` now projects 75N..56S and 170W..190E independently onto that slot (`preserveAspectRatio="none"`). Continents run from the top edge to near the bottom (no Antarctica). Land has a thin darker outline. Numbered badges are 16px (20px wide for 10–13). All 27 also-list dots are drawn and nudged off the badges. The region legend is unchanged.
+
+The also-list type is 12px / weight 800 (was 10px). The 14 rows still share the column height evenly. Lines that would have clipped at that size are shorter; the hedges stay (Anadolu, Axios, Seoul's ADIZ claim, Geneva since Monday, the firm ruling out a hack). Checked at 300px: the date, the three leads, the map pins, and the also lines read, and nothing is cut off at the right edge.
+
+`sh build/build.sh`: 1024×1024 palette PNG, 99,420 bytes. `mkdir -p out && MAKEFUN_OUTPUT_DIR=out node main.ts` matched `entry.png`.
+
+### Next
+
+Pushed to origin main.
